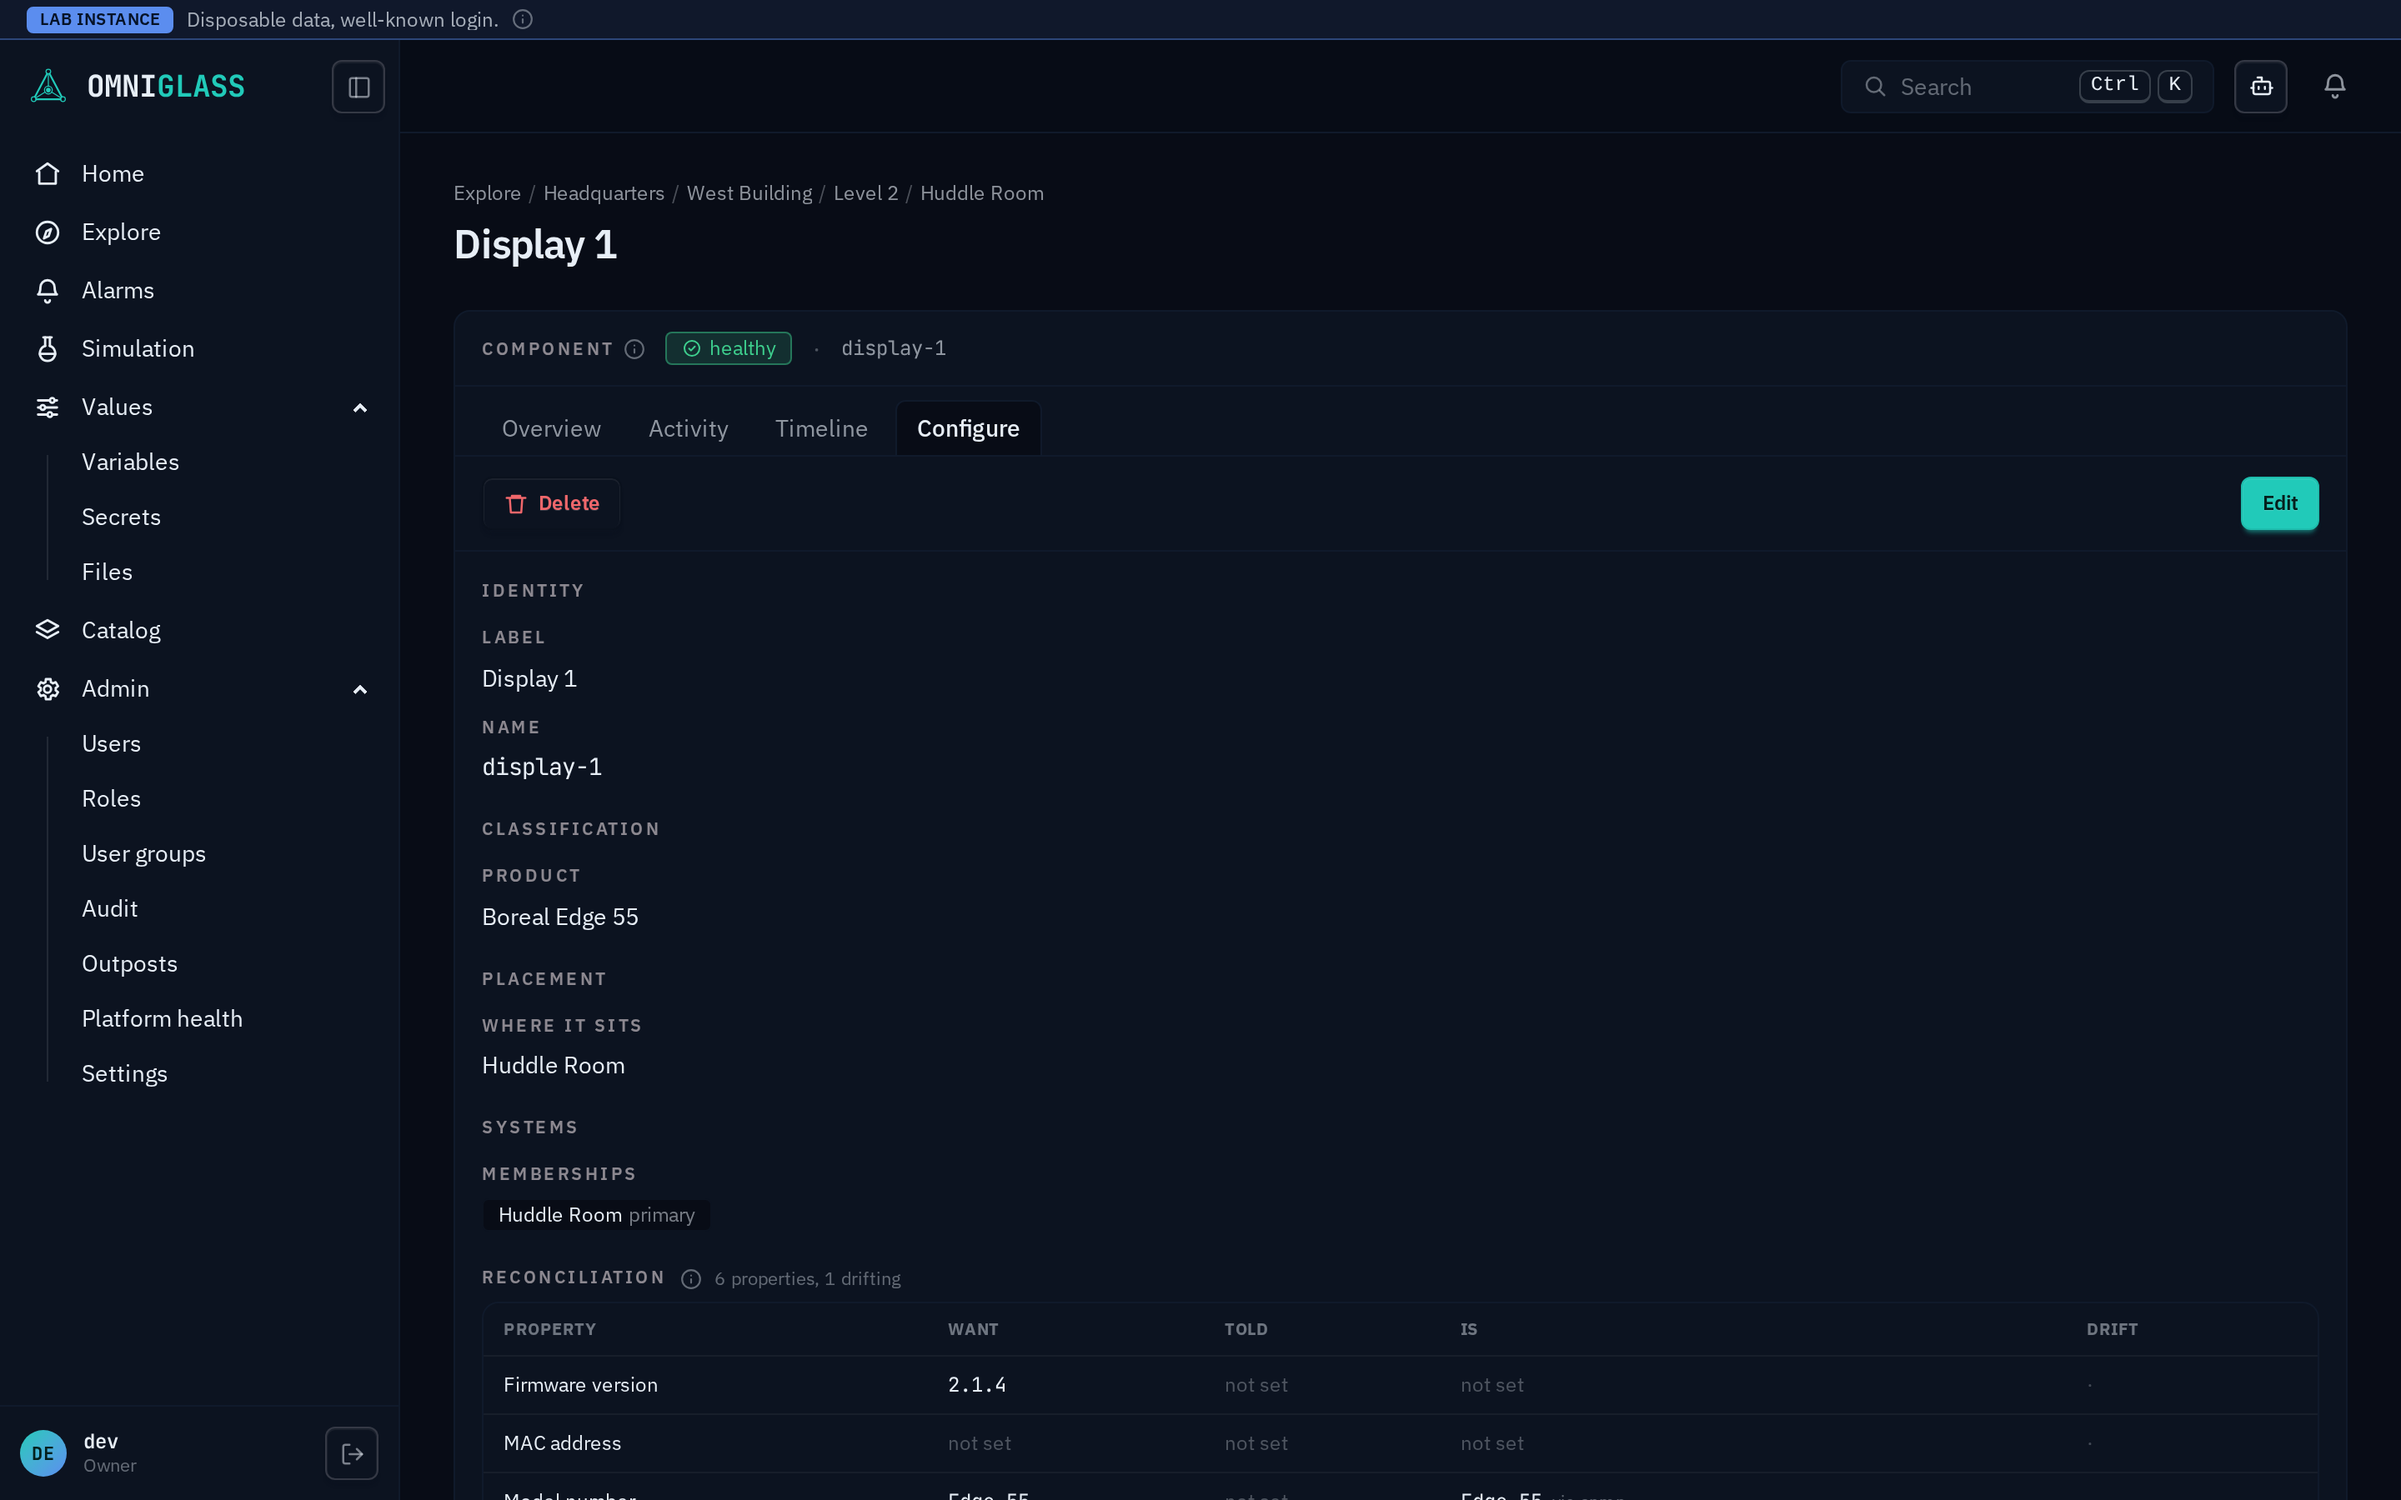
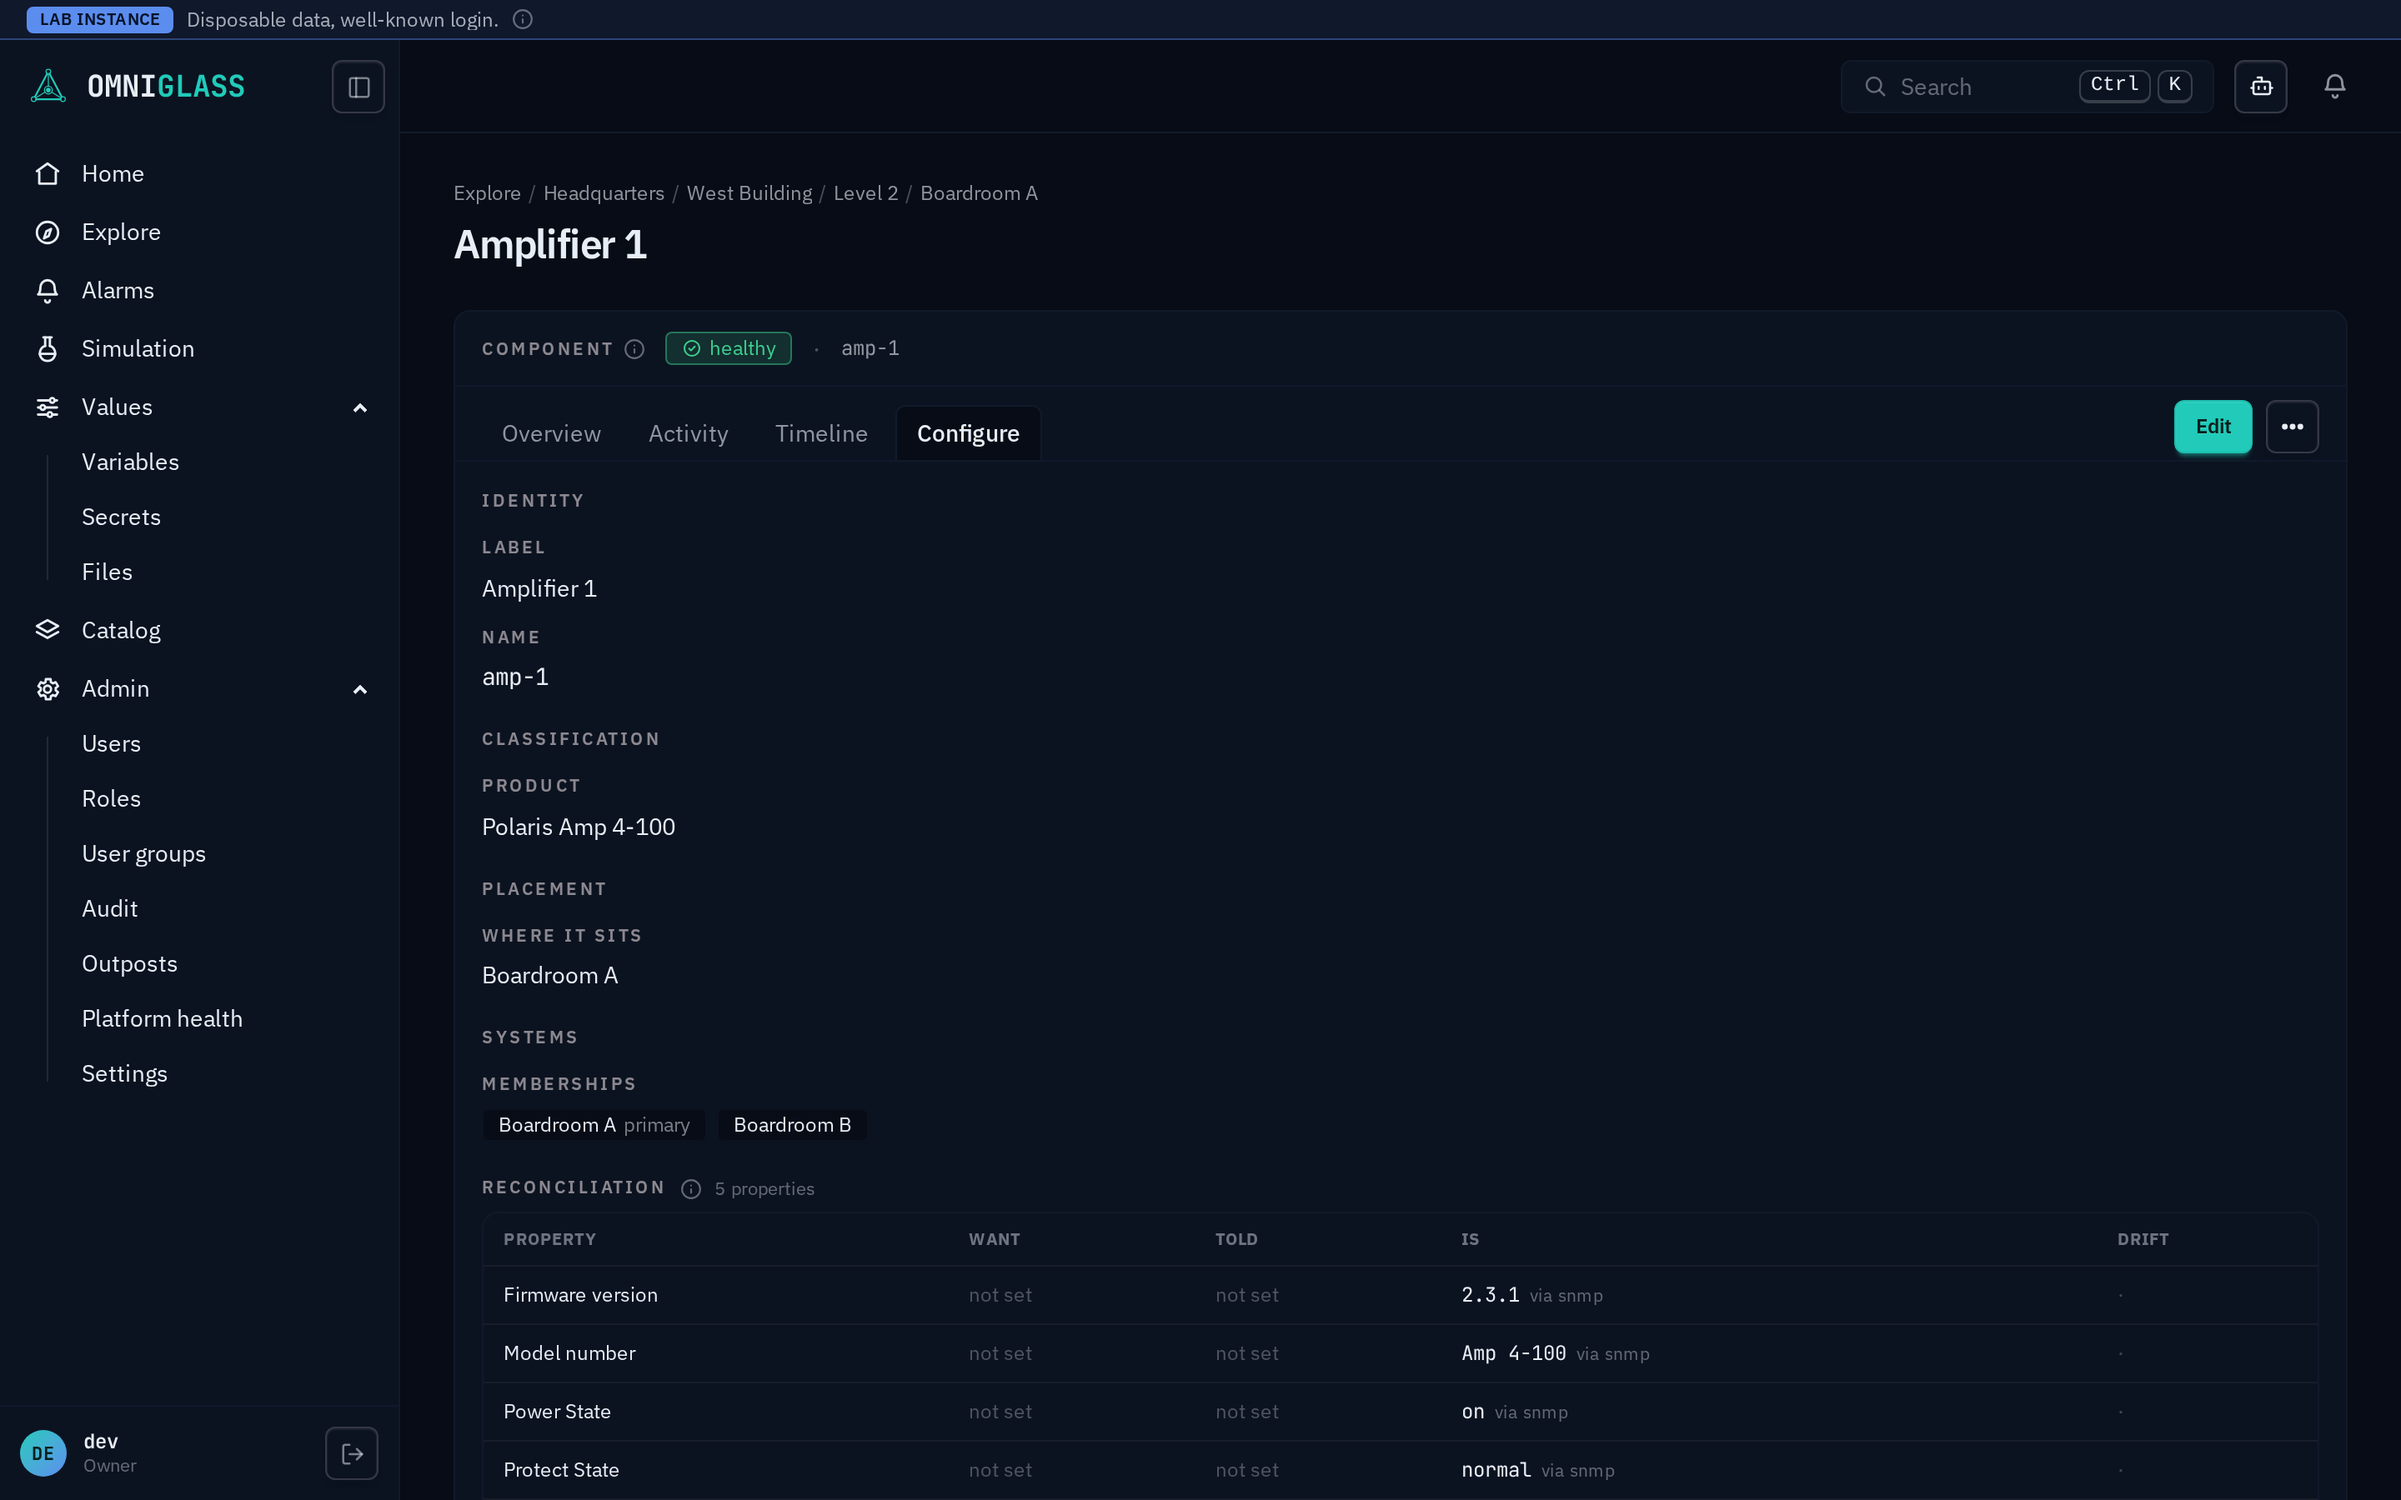
Recapture the Configure tab shots and update the operator docs for the rail actions

diff --git a/docs/src/content/docs/operator/entities.md b/docs/src/content/docs/operator/entities.md
@@ -66,7 +66,7 @@ reflowed to the narrower panel, so you never leave Explore to answer a question 
 entity. Switching a tab inside the blade changes only the blade; the page behind it keeps its
 own address. A blade has no breadcrumb, so where the entity sits is said by a location card
 with the path above it. Opening something from inside a blade (a system a component serves, a
-component on a system's Why) stacks another blade over it. Edit and Delete sit in the
+component on a system's Why) stacks another blade over it. Edit and a ⋯ menu holding Delete sit on the
 **Configure** tab's rail, as on the page; Delete asks first and is gated by your permissions
 on that row. **Expand** still opens the page, for its breadcrumb and its shareable address.
 
@@ -94,7 +94,7 @@ notice, not a blank drawer. The notice reads the same either way, so it does not
 
 A blade opens **read-only**, and the header is chrome only (back, full-page, close). A fleet
 blade (a location, a system, a component) is its detail view, so it edits as the page does: on its
-**Configure** tab, whose rail (the first thing on the tab) carries **Edit** and, on the left, **Delete** behind a confirm (see
+**Configure** tab, whose tab rail carries **Edit** and a **⋯** menu holding **Delete** behind a confirm (see
 [Configure](/operator/fleet/) and [what is in the way](#delete-and-what-is-in-the-way)). The rest of this section is the identity and catalog blades, whose
 actions live in the blade's own **footer action bar**: **Edit** turns the whole blade live in place,
 its profile, members and grants.

diff --git a/docs/src/content/docs/operator/fleet.md b/docs/src/content/docs/operator/fleet.md
@@ -462,7 +462,7 @@ dropping rows silently.
 
 ## Configure
 
-Editing lives on the detail view (#800): the **Configure** tab leads with its rail (**Edit**, or **Cancel** and **Save changes** while editing, and **Delete** on the left), so the action is reachable without scrolling past the sections. It renders for anyone holding an
+Editing lives on the detail view (#800): the **Configure** tab carries its actions at the right end of the tab rail (**Edit** and a **⋯** menu holding **Delete**, or **Cancel** and **Save** while editing), so the action is reachable without scrolling past the sections. It renders for anyone holding an
 edit verb on the entity, and inside it the sections gate one by one. **Identity** carries
 the label (with the platform's pen) and the name with its advisory precheck; renaming
 breaks bookmarks and integrations by design, so the check and the consequence line sit
